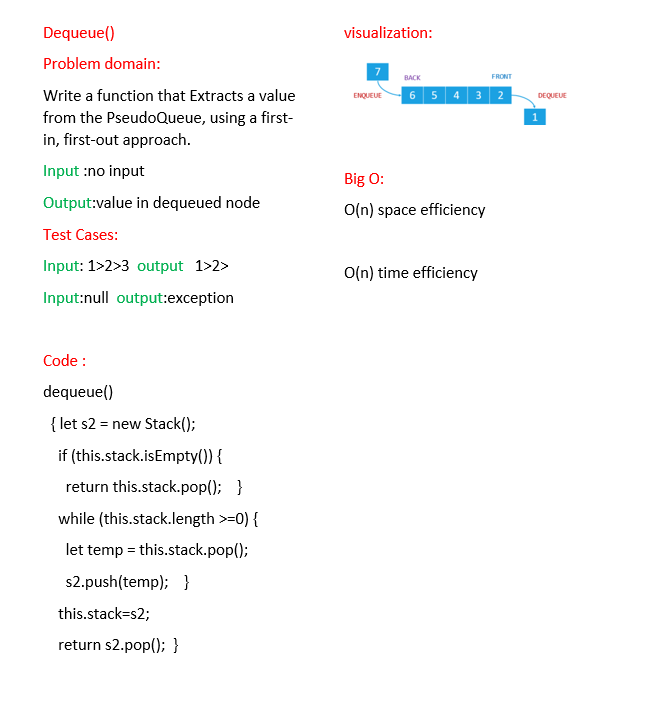
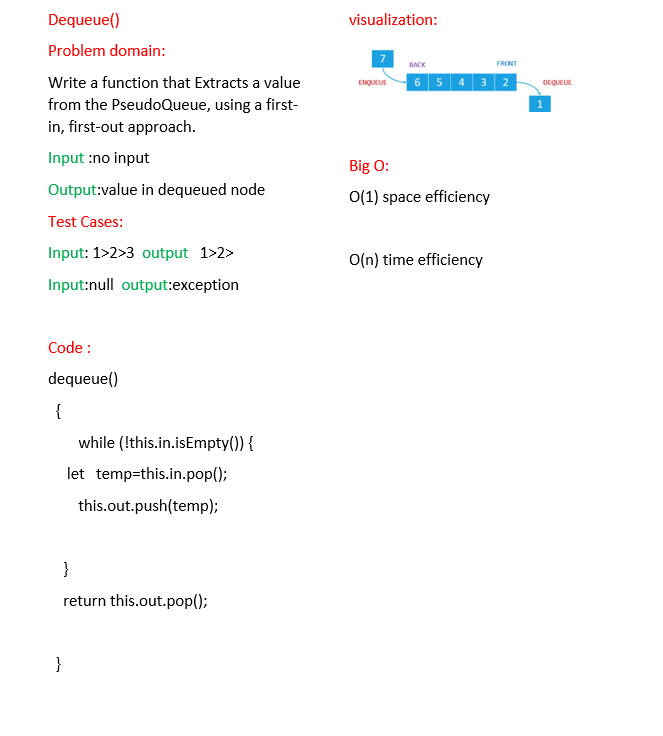
queuePsedo

diff --git a/javascript/code-challenges/javascript/class11/PseudoQueue.js b/javascript/code-challenges/javascript/class11/PseudoQueue.js
@@ -2,67 +2,29 @@
 const Stack = require("./stack");
 
 class PseudoQueue {
-  constructor(stack,stack2) {
-    this.stack = new Stack();
-    this.stack2 = new Stack();
+  constructor(stack, stack2) {
+    this.in = new Stack();
+    this.out = new Stack();
   }
   ////////////enqueue/////////////////
-  enqueue(value) 
-  { let steps=this.stack.length;
-    // let s2 = new Stack();
-    this.stack.push(value);
-    if (this.stack.isEmpty()) {
-      this.stack.push(value);
-  
-    } else {
-      
-      this.stack.push(value);  
+  enqueue(value) {
+   
+      this.in.push(value);
 
-      while (steps>=0) {
-        this.stack2.push(this.stack.pop());
-        // console.log("in",this.stack.pop())
-        steps--;
-      }
-      
-      // this.stack=;
-    }
-    
   }
   //////////////dequeue///////////////////////
   dequeue()
-  { 
-    if (this.stack.length === 0) {
-      while(this.stack2.length > 0) {
-        this.stack.push(this.stack2.pop());
-      }
+  {
+        while (!this.in.isEmpty()) {
+     let   temp=this.in.pop();
+        this.out.push(temp);
+       
     }
-    
-    return this.stack.pop();
-//     console.log("de") 
-//     let steps=this.stack2.length;
-//     // console.log("length",steps)
-//     if (this.stack2.length==1) {
-//       return this.stack2.pop();
-//     }
-//     else{
-//       console.log("bs1",this.stack.length)
-//     console.log("bs2",this.stack2.length)
-//       while (steps>0) {
-//       this.stack.push(this.stack2.pop());
-// steps--;
-//     }
-//     console.log("s1",this.stack.length)
-//     console.log("s2",this.stack2.length)
-//   //  this.stack=this.stack2;
-//     // this.stack2.pop();
-//     this.stack.pop();
-//     // this.stack.pop();
-//   }
-//     // 
-//     // return  this.stack.pop();
+    return this.out.pop();
+
   }
   toString() {
-    let currentNode = this.stack2.top;
+    let currentNode = this.out.top;
     let str = "";
     while (currentNode) {
       //"{ a } -> { b } -> { c } -> NULL"
@@ -72,8 +34,6 @@ class PseudoQueue {
     }
     return str;
   }
-
-
 }
 
 module.exports = PseudoQueue;

diff --git a/javascript/code-challenges/javascript/class11/__test__/queueStacks.test.js b/javascript/code-challenges/javascript/class11/__test__/queueStacks.test.js
@@ -1,0 +1,22 @@
+'use strict';
+let PseudoQueue=require("../PseudoQueue");
+let pq=new PseudoQueue();
+describe("Queue using Staks",()=>{
+test("Enqueue",()=>{
+    pq.enqueue(1);
+    pq.enqueue(2);
+expect(pq.in.peek()).toBe(2);
+
+})
+
+test("Dequeue",()=>{
+    pq.enqueue(1);
+    pq.enqueue(2);
+    pq.enqueue(3);
+    pq.dequeue();
+expect(pq.out.peek()).toBe(2);
+
+})
+
+
+})

diff --git a/javascript/code-challenges/javascript/class11/index.js b/javascript/code-challenges/javascript/class11/index.js
@@ -3,13 +3,10 @@ let PseudoQueue=require("./PseudoQueue");
 let pq=new PseudoQueue();
 pq.enqueue(1);
 pq.enqueue(2);
-pq.enqueue(3);
-pq.dequeue();
-pq.dequeue();
-// pq.dequeue();
 // pq.enqueue(3);
-// pq.enqueue(4);
-// pq.enqueue(5);
-// pq.enqueue(6);
-console.log(pq.toString());
+// pq.dequeue();
+// pq.dequeue();
+
+console.log(pq.in.peek());
+// console.log(pq.out.peek())
 

diff --git a/javascript/code-challenges/javascript/class11/README.md b/javascript/code-challenges/javascript/class11/README.md
@@ -16,13 +16,13 @@ utilize 2 Stack instances to create and manage the queue.
 <!-- What approach did you take? Why? What is the Big O space/time for this approach? -->
 enqueue()
 
-O(n) space efficiency
+O(1) space efficiency
 
 O(n) time efficiency
 
 dequeue()
 
-O(n) space efficiency
+O(1) space efficiency
 
 O(n) time efficiency
 
